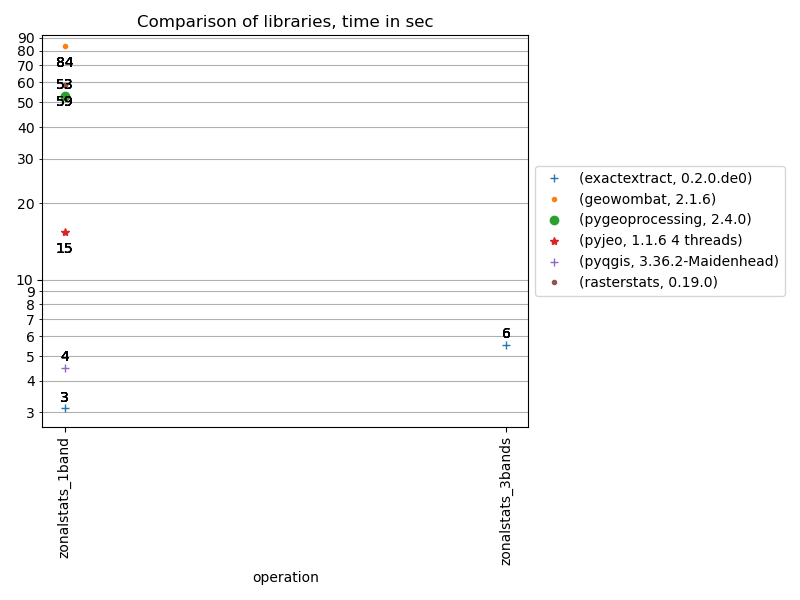
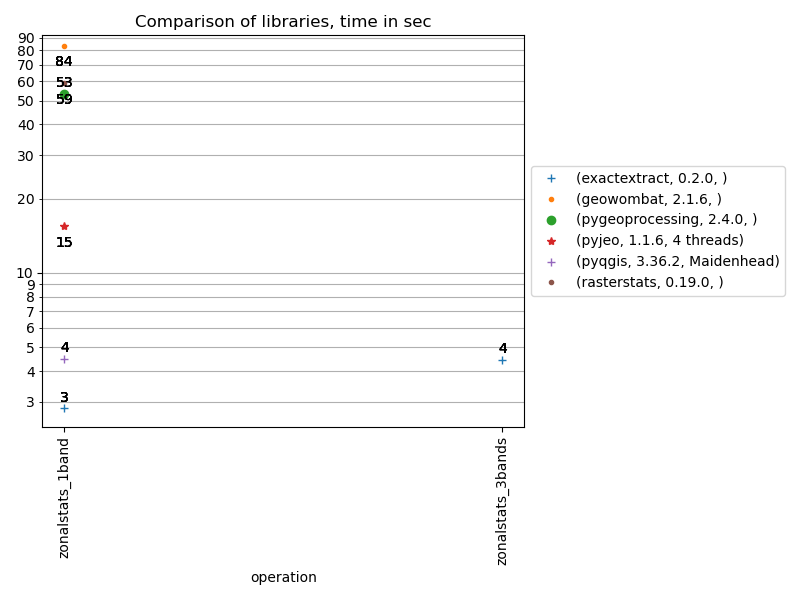
BUG: fix sorting package versions (#42)

diff --git a/reporter.py b/reporter.py
@@ -67,24 +67,32 @@ def generate_reports(results_path: Path, output_dir: Path):
             )
 
     # Report for last version of each package+operation for comparison
+    from packaging.version import Version
+
+    benchmark_df["version_suffix"] = benchmark_df["package_version"].apply(
+        lambda x: x.split("-")[1] if len(x.split("-")) > 1 else ""
+    )
+    benchmark_df["version"] = benchmark_df["package_version"].apply(
+        lambda x: Version(x.split("-")[0])
+    )
     benchmark_maxversions_df = (
-        benchmark_df[["package", "operation", "package_version"]]
-        .sort_values(["package", "operation", "package_version"], ascending=False)
+        benchmark_df[["package", "operation", "version", "version_suffix"]]
+        .sort_values(["package", "operation", "version", "version_suffix"], ascending=False)
         .groupby(["package", "operation"])
         .first()
         .reset_index()
-        .set_index(["package", "operation", "package_version"])
+        .set_index(["package", "operation", "version", "version_suffix"])
     )
     benchmark_maxversion_df = benchmark_df.set_index(
-        ["package", "operation", "package_version"]
+        ["package", "operation", "version", "version_suffix"]
     )
     benchmark_maxversion_df = (
         benchmark_maxversion_df.loc[
             benchmark_maxversion_df.index.isin(benchmark_maxversions_df.index)
         ].reset_index()
-    )[["package", "package_version", "operation", "secs_taken"]]
+    )[["package", "version", "version_suffix", "operation", "secs_taken"]]
     benchmark_maxversion_df = benchmark_maxversion_df.pivot_table(
-        index="operation", columns=["package", "package_version"]
+        index="operation", columns=["package", "version", "version_suffix"]
     )
     # Drop the "secs_taken" level to cleanup legend in chart
     benchmark_maxversion_df = benchmark_maxversion_df.droplevel(level=0, axis=1)

diff --git a/benchmarks_zonalstats/benchmarks_exactextract.py b/benchmarks_zonalstats/benchmarks_exactextract.py
@@ -69,7 +69,7 @@ def zonalstats_1band(tmp_dir: Path) -> List[RunResult]:
             "mean",
             "min",
             "max",
-            # "count(coverage_weight=none)",
+            "count(coverage_weight=none)",
             # "mean(coverage_weight=none)",
             # "min(coverage_weight=none)",
             # "max(coverage_weight=none)",

diff --git a/benchmarks_zonalstats/benchmarks_pyjeo.py b/benchmarks_zonalstats/benchmarks_pyjeo.py
@@ -34,7 +34,7 @@ def _get_package() -> str:
 def _get_version() -> str:
     nproc = os.environ.get("OMP_NUM_THREADS")
     if nproc is not None:
-        return f"{pj.__version__} {nproc} threads".replace("v", "")
+        return f"{pj.__version__}-{nproc} threads".replace("v", "")
     else:
         return f"{pj.__version__}".replace("v", "")
 
